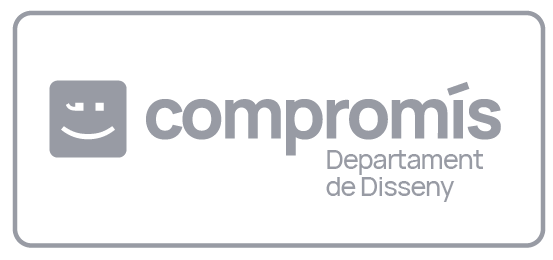
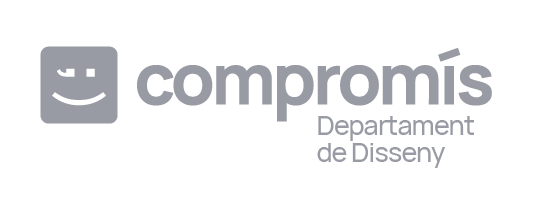
Modify seal order

Changed region(s): [[0.0595, 0.209, 0.9219, 0.6269], [0.0, 0.0299, 1.0, 0.9552], [0.5651, 0.5672, 0.8922, 0.8358]]

diff --git a/pages/material-impres.vue b/pages/material-impres.vue
@@ -452,19 +452,19 @@
         Segells
       </h2>
       <p style="max-width: 1000px;">
-        Exemples de segells. Recomanem encomanar segells en recatangular per a que encaixe millor el logo, però de no ser possible hi ha també una versió circular.
+        Exemples de segells. Utilitzeu, preferentment, el segell circular si necesiteu que s'ajuste millor a espais reduits, i el rectangular si voleu destacar més el logo i el departament o col·lectiu.
       </p>
       <div class="row mb-4">
         <div class="col-xl-9">
           <div class="row">
-            <div class="col-lg-8">
-              <figure class="no-margin text-center mb-4 mb-xl-0">
-                <img src="../assets/aplicacions/segell-rectangular.png" alt="Segell Rectangular" style="max-height: 200px; object-fit: contain;">
-              </figure>
-            </div>
-            <div class="col-lg-4">
+            <div class="col-lg-5">
               <figure class="no-margin text-center mb-4 mb-xl-0">
                 <img src="../assets/aplicacions/segell-circular.png" alt="Segell Circular" style="max-height: 200px; object-fit: contain;">
+              </figure>
+            </div>
+            <div class="col-lg-7">
+              <figure class="no-margin text-center mb-4 mb-xl-0">
+                <img src="../assets/aplicacions/segell-rectangular.png" alt="Segell Rectangular" style="max-height: 200px; object-fit: contain;">
               </figure>
             </div>
           </div>
